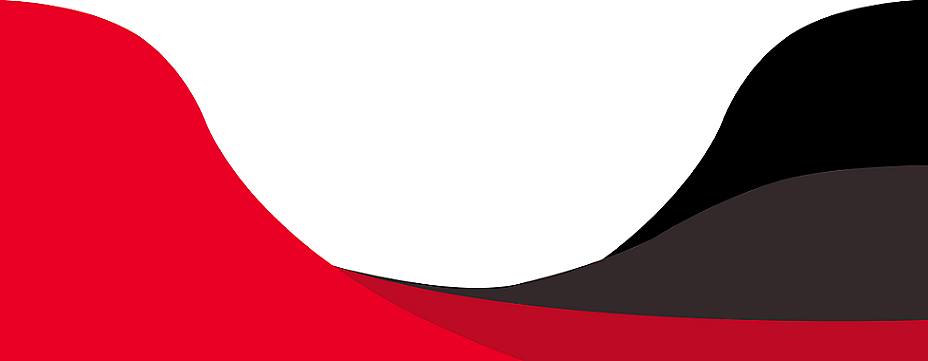
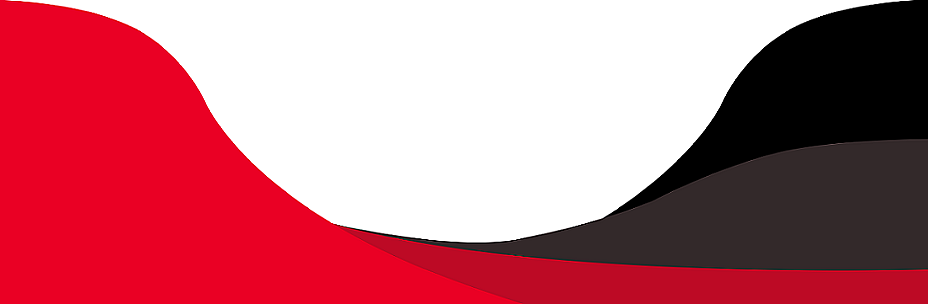
css styling of Search Restaurant screen

diff --git a/src/pages/SearchRestaurant.vue b/src/pages/SearchRestaurant.vue
@@ -1,6 +1,9 @@
 <template>
     <q-page>
-        <div class="q-pa-sm q-mt-sm">
+        <div >
+        <q-img class="flip-vertical responsive " :src="screenTopBackground"></q-img>
+        </div>
+        <div class="q-pa-sm q-mt-sm searchBox">
             <q-input
                 outlined
                 ref="restaurantNameInput"
@@ -11,7 +14,7 @@
                 @keyup="searchRestaurant()"
             >
                 <template v-slot:append>
-                    <q-icon name="search" />
+                    <q-icon name="search" color="red" />
                 </template>
             </q-input>
         </div>
@@ -40,6 +43,7 @@ export default {
     data() {
         return {
             restaurantName: '',
+            screenTopBackground: 'statics/home-screen-bottom.png', 
         };
     },
     mounted() {
@@ -60,3 +64,21 @@ export default {
     },
 };
 </script>
+
+<style lang="scss">
+         
+    .searchBox {
+        position: absolute;
+        top: 1rem;
+        left:50%;
+        transform: translateX(-50%);
+        z-index: 2;
+        width: 80%;      
+    }
+
+    .q-field__inner.relative-position.col.self-stretch.column.justify-center{
+        background-color: white !important;
+    }
+    
+    
+</style>

diff --git a/src/components/RestaurantItem.vue b/src/components/RestaurantItem.vue
@@ -20,13 +20,11 @@
                     >{{ restaurant.street_name }} {{ restaurant.city }}
                 </q-item-label>
 
-                <q-item-label caption class="item__description summary"
+                <q-item-label lines="2" caption class="item__description summary"
                     >{{ restaurant.description }}
                 </q-item-label>
 
-                <q-item-label caption class="item__description dark"
-                    >{{ restaurant.website }}
-                </q-item-label>
+                <a v-bind:href="restaurant.website" class="item__description websiteLink"> {{restaurant.website}} </a>
             </q-item-section>
         </q-item>
 
@@ -47,18 +45,11 @@ export default {
 </script>
 
 <style lang="scss" scoped>
-.q-item__section--thumbnail img {
-    width: 96px;
-    height: 96px;
-    border-radius: 4px;
-}
-
-.q-item {
-    padding: 25px 16px;
-}
 
 .dark {
-    color: rgb(26, 26, 26);
+    color: #000;
+    font-weight: strong;
+    font-size: .9rem;
 }
 
 .summary {
@@ -67,5 +58,6 @@ export default {
 
 .title {
     margin-bottom: 0;
+    font-size: 1.2rem;
 }
 </style>

diff --git a/src/css/app.scss b/src/css/app.scss
@@ -13,11 +13,6 @@
     z-index: 1000000 !important;
 }
 
-.linkText{
-    color: blue;
-    text-decoration: underline;
-}
-
 #qrCode{
     margin:3em;
 }
@@ -39,3 +34,16 @@
     width: 85%;
 }
 
+.q-item__section--thumbnail img {
+    width: 96px;
+    height: 96px;
+    border-radius: 4px;
+}
+
+.q-item {
+    padding: 25px 16px;
+}
+
+a.websiteLink {
+    text-decoration: none;
+}

diff --git a/src/pages/Home.vue b/src/pages/Home.vue
@@ -49,6 +49,7 @@ export default {
             homeScreenCafe: 'statics/home-cafe.png',
             homeScreensStrawberryImg: 'statics/home-strawberry-img.png',
             homeScreensStrawberries2Img: 'statics/home-strawberries-2-img.png',
+            
         };
     },
     created() {
